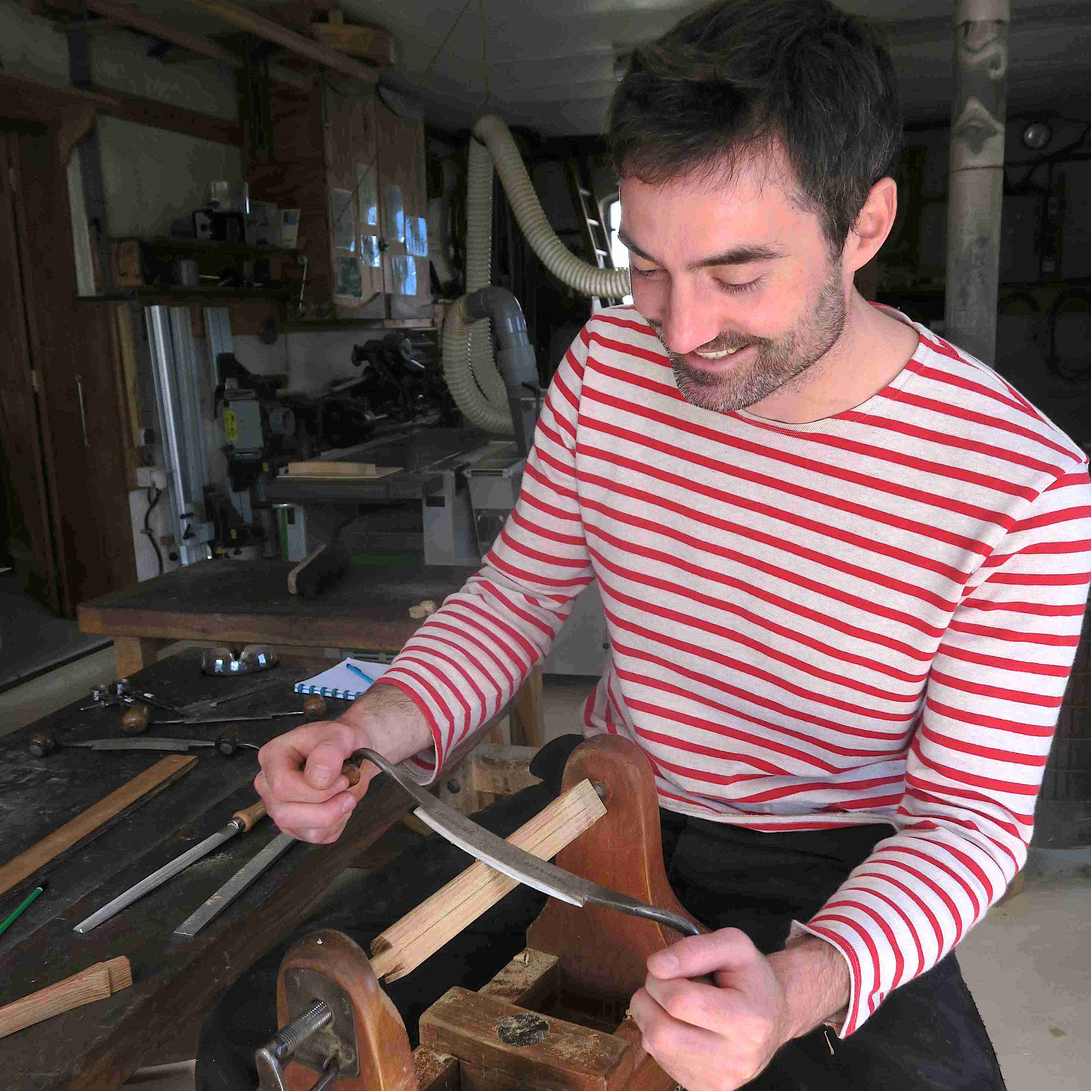
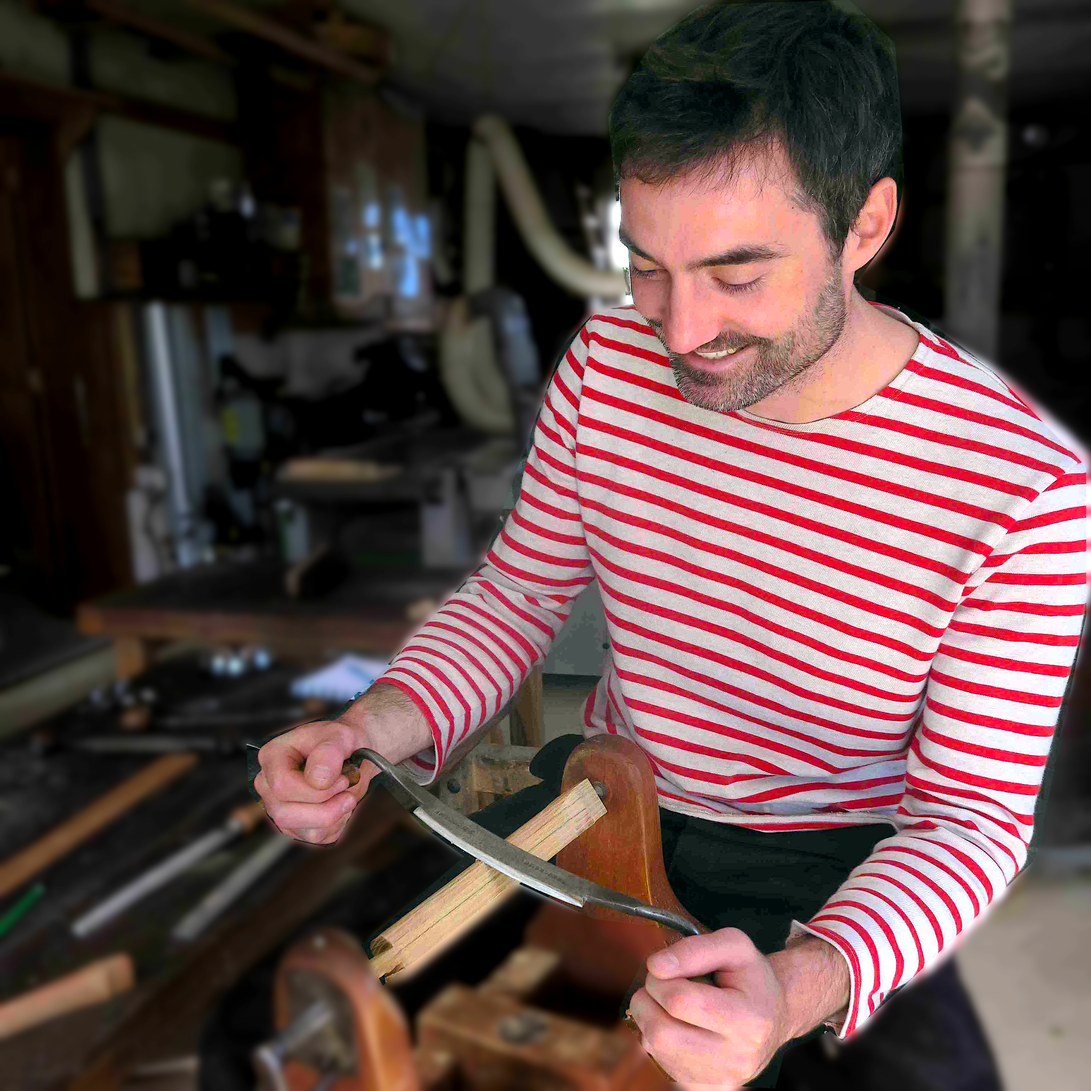
fix: cosmetic

diff --git a/themes/pego/assets/scss/main.scss b/themes/pego/assets/scss/main.scss
@@ -351,13 +351,14 @@ figure img.img {
 
 .note {
   padding: 0.5rem 1.5rem;
-  background: rgba(135, 206, 235, 0.1);
+  background: rgba(63, 75, 41, 0.01);
+  border: 1px solid rgba(63, 75, 41, 0.05);
   border-radius: 10px;
   text-align: left;
 }
 .note h2 {
   font-size: 1.5em;
-  color: rgb(6, 102, 252);
+  color: #3F4B29;
 }
 
 :has(.background-image) .logo {
@@ -370,7 +371,7 @@ figure img.img {
   width: 100vw;
   min-height: 330px;
   background-size: cover;
-  background-position: center;
+  background-position: center bottom;
   text-align: center;
   background-color: #111;
 }
@@ -394,6 +395,7 @@ figure img.img {
   bottom: -200px;
   margin: 0;
   border-radius: 50%;
+  border: 5px solid #F0F2DB;
 }
 
 @media screen and (min-width: 860px) {

diff --git a/layouts/index.html b/layouts/index.html
@@ -1,6 +1,6 @@
 {{ define "main" }}
-{{ $filter := images.Contrast -30 }}
-{{ $avatar := (((resources.Get "/illustration/avatar.jpg")).Resize "250x webp").Permalink  }}
+{{ $filter := images.Contrast -10 }}
+{{ $avatar := (((resources.Get "/illustration/avatar.jpg")).Resize "350x webp").Permalink  }}
 {{ $background := (((resources.Get "/illustration/background-home.jpg").Filter $filter).Resize "1900x webp").Permalink  }}
 
 <div class="background-image" style="background-image: url({{ $background }})">

diff --git a/layouts/oeuvres/single.html b/layouts/oeuvres/single.html
@@ -12,7 +12,7 @@
       {{ .Content }}
     </div>
     {{ end }}
-    {{ $path := printf "/atelier-de-pierrot/essences/%s/" .Params.essence }}
+    {{ $path := printf "/essences/%s/" .Params.essence }}
     {{ $key := ((index (where ($.Site.GetPage "essences").Pages "RelPermalink" "in" (slice $path)) 0).Resources) }}
     {{ $images := cond (not $key) slice $key }}
     {{ with (.Resources.ByType "image") }}

diff --git a/content/oeuvres/lampe/index.md b/content/oeuvres/lampe/index.md
@@ -4,5 +4,6 @@ essence: meleze
 description: |-
   **Essences : Mélèze - Frêne - Chêne**
   <br/> ***Dim. 9,5 x 20 x 30cm***
----  
-Conçue en collaboration avec ***Charlotte Pirlot***, designeuse ébéniste belge en 2023, la première série créée en 2024 a trouvé son public et suscite beaucoup d’enthousiasme.
+---
+
+Conçue en collaboration avec **Charlotte Pirlot**, designeuse ébéniste belge en 2023, la première série créée en 2024 a trouvé son public et suscite beaucoup d’enthousiasme.

diff --git a/content/_index.md b/content/_index.md
@@ -17,7 +17,7 @@ description: >
 
    **Pierre**
 
-seo_title: Atelier de Pierrot
+seo_title: "1roue2mains"
 
 outputs:
   - html
